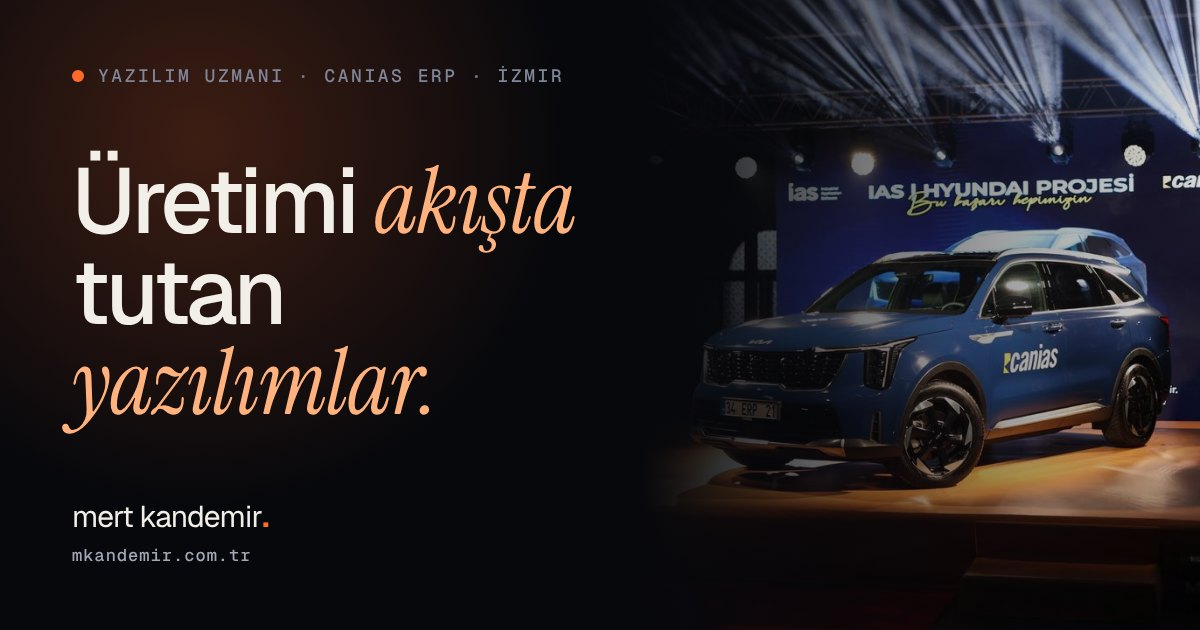
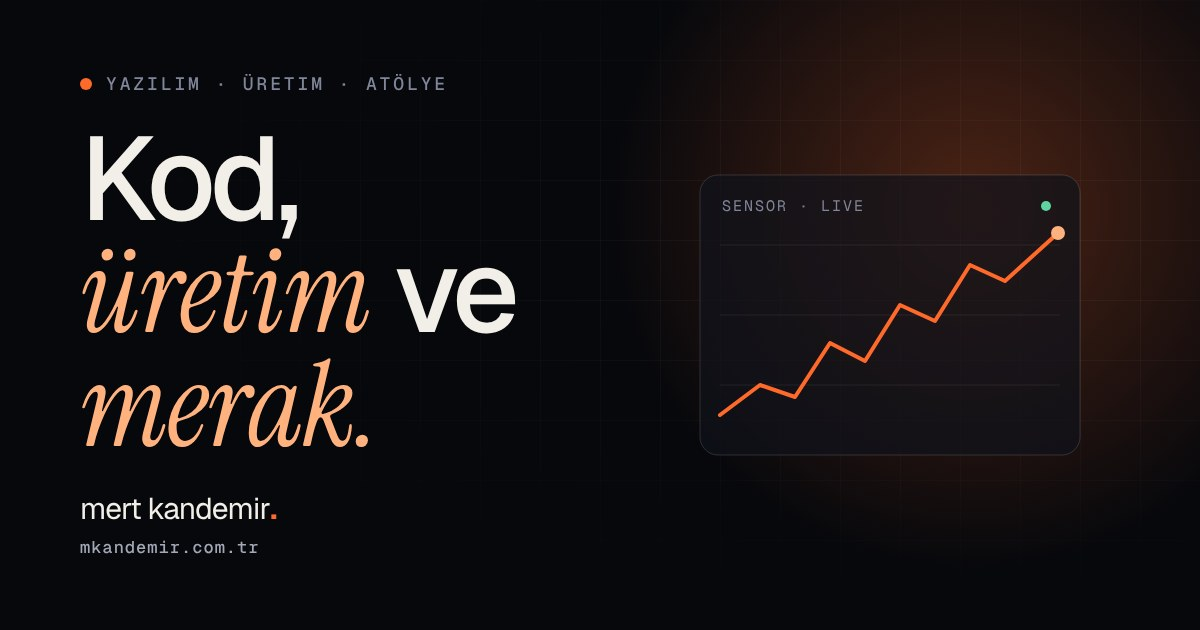
Personal hero, cropped signing photo, new OG images
- Crop signing photo so no one else appears in it
- Hero: "Code, factories and curiosity" with a personal intro
- Marquee now lists interests instead of tech keywords
- Remove technology stack lists from the day-job section
- New typographic OG images without company branding
- E-mail address assembled at runtime to reduce scraping

Claude-Session: https://claude.ai/code/session_01RdHNirFvH27waTBasaJWuB

diff --git a/index.html b/index.html
@@ -3,7 +3,7 @@
 <head>
 <meta charset="utf-8">
 <meta name="viewport" content="width=device-width, initial-scale=1, viewport-fit=cover">
-<title>Mert Kandemir — Software, manufacturing &amp; tinkering</title>
+<title>Mert Kandemir — Code, factories and curiosity</title>
 <meta name="description" content="Mert Kandemir — software developer in İzmir working on the production module of CANIAS ERP. Personal apps MotoHane and Garantim, and workshop experiments with PLCs and sensors.">
 <meta name="theme-color" content="#07080c">
 <link rel="canonical" href="https://mkandemir.com.tr/">
@@ -14,20 +14,20 @@
 <meta property="og:site_name" content="Mert Kandemir">
 <meta property="og:locale" content="en_US">
 <meta property="og:locale:alternate" content="tr_TR">
-<meta property="og:title" content="Mert Kandemir — Software that keeps production moving">
+<meta property="og:title" content="Mert Kandemir — Code, factories and curiosity">
 <meta property="og:description" content="CANIAS ERP production by day; personal apps and workshop experiments by night. Mert Kandemir, İzmir.">
 <meta property="og:url" content="https://mkandemir.com.tr/">
-<meta property="og:image" content="https://mkandemir.com.tr/assets/og-image.jpg">
+<meta property="og:image" content="https://mkandemir.com.tr/assets/og-image.jpg?v=2">
 <meta property="og:image:width" content="1200">
 <meta property="og:image:height" content="630">
-<meta property="og:image:alt" content="Mert Kandemir — Software that keeps production moving">
+<meta property="og:image:alt" content="Mert Kandemir — Code, factories and curiosity">
 <meta name="twitter:card" content="summary_large_image">
 <link rel="icon" href="/assets/favicon.svg" type="image/svg+xml">
 <link rel="icon" href="/assets/favicon-32.png" sizes="32x32" type="image/png">
 <link rel="apple-touch-icon" href="/assets/apple-touch-icon.png">
 <link rel="preload" href="/assets/fonts/geist-latin-wght-normal.woff2" as="font" type="font/woff2" crossorigin>
 <link rel="stylesheet" href="/assets/css/fonts.css?v=2">
-<link rel="stylesheet" href="/assets/css/site.css?v=6">
+<link rel="stylesheet" href="/assets/css/site.css?v=7">
 <link rel="preload" as="image" href="/assets/hyundai/stage-wide.webp" type="image/webp" media="(min-width: 641px)">
 <script>
 document.documentElement.classList.replace('no-js','js');
@@ -74,7 +74,7 @@ document.documentElement.classList.replace('no-js','js');
     <a href="#contact">Contact <small>05</small></a>
   </nav>
   <div class="mm-foot">
-    <a href="mailto:mertkandemir01@gmail.com">mertkandemir01@gmail.com</a>
+    <a href="#contact" data-mail="mertkandemir01|gmail.com"><span data-mail-text>mertkandemir01 [at] gmail.com</span></a>
     <a href="https://www.linkedin.com/in/mert-kandemir-8798bb8b" target="_blank" rel="noopener">LinkedIn</a>
     <a href="https://github.com/mertkandemir" target="_blank" rel="noopener">GitHub</a>
   </div>
@@ -85,9 +85,9 @@ document.documentElement.classList.replace('no-js','js');
 <section class="hero" aria-labelledby="hero-title">
   <div class="wrap hero-grid">
     <div>
-      <div class="eyebrow fade-in"><span class="dot" aria-hidden="true"></span><span class="label">IAS · CANIAS ERP · İzmir</span></div>
-      <h1 id="hero-title"><span class="line"><span>Software that</span></span><span class="line"><span>keeps <em>production</em></span></span><span class="line"><span><em>moving.</em></span></span></h1>
-      <p class="lead fade-in d2">I'm Mert. By day I work on the production module of CANIAS ERP at IAS. In the evenings I build my own apps and tinker in my workshop with Arduino, PLCs and sensors.</p>
+      <div class="eyebrow fade-in"><span class="dot" aria-hidden="true"></span><span class="label">Mert Kandemir · İzmir</span></div>
+      <h1 id="hero-title"><span class="line"><span>Code,</span></span><span class="line"><span><em>factories</em> and</span></span><span class="line"><span><em>curiosity.</em></span></span></h1>
+      <p class="lead fade-in d2">By day I work on the production module of CANIAS ERP at IAS; in the evenings I build my own apps and tinker with PLCs and sensors in my workshop. This is where I share what I've made and what I'm making.</p>
       <div class="hero-actions fade-in d3">
         <a class="btn primary" href="#work" data-magnetic>See my projects <span class="arr down" aria-hidden="true">↓</span></a>
         <a class="btn" href="#about" data-magnetic>About me <span class="arr down" aria-hidden="true">↓</span></a>
@@ -128,8 +128,8 @@ document.documentElement.classList.replace('no-js','js');
 
 <div class="marquee" aria-hidden="true">
   <div class="marquee-track">
-    <div class="marquee-group"><span>Production orders</span><span><em>Bills of materials</em></span><span>Routings</span><span><em>Material requirements</em></span><span>Confirmations</span><span><em>Shop-floor reporting</em></span><span>TROIA</span><span><em>SQL</em></span><span>React Native</span><span><em>.NET</em></span></div>
-    <div class="marquee-group"><span>Production orders</span><span><em>Bills of materials</em></span><span>Routings</span><span><em>Material requirements</em></span><span>Confirmations</span><span><em>Shop-floor reporting</em></span><span>TROIA</span><span><em>SQL</em></span><span>React Native</span><span><em>.NET</em></span></div>
+    <div class="marquee-group"><span>Manufacturing software</span><span><em>Mobile apps</em></span><span>The workshop</span><span><em>PLCs & sensors</em></span><span>Resin printing</span><span><em>Sailing</em></span><span>Tennis</span><span><em>Swimming</em></span><span>Learning new things</span><span><em>İzmir</em></span></div>
+    <div class="marquee-group"><span>Manufacturing software</span><span><em>Mobile apps</em></span><span>The workshop</span><span><em>PLCs & sensors</em></span><span>Resin printing</span><span><em>Sailing</em></span><span>Tennis</span><span><em>Swimming</em></span><span>Learning new things</span><span><em>İzmir</em></span></div>
   </div>
 </div>
 
@@ -238,7 +238,7 @@ document.documentElement.classList.replace('no-js','js');
         <p class="lead">As the IAS team, we brought CANIAS ERP to Hyundai's automotive manufacturing. I worked on Production Management applications and production reports, and spent three months of the project on-site in South Korea alongside the local teams. The achievement certificate we received as a team — and the car carrying all our signatures — are some of my favourite memories of this work.</p>
       </div>
       <figure class="shot sign" data-reveal>
-        <picture><source srcset="/assets/hyundai/signing-sm.webp 640w, /assets/hyundai/signing.webp 1100w" sizes="(max-width:900px) 100vw, 40vw" type="image/webp"><img src="/assets/hyundai/signing.jpg" width="1100" height="1650" alt="Mert Kandemir signing the hood of the project car alongside the team's signatures." loading="lazy" decoding="async"></picture>
+        <picture><source srcset="/assets/hyundai/signing-sm.webp 640w, /assets/hyundai/signing.webp 822w" sizes="(max-width:900px) 100vw, 40vw" type="image/webp"><img src="/assets/hyundai/signing.jpg" width="822" height="1028" alt="Mert Kandemir signing the hood of the project car alongside the team's signatures." loading="lazy" decoding="async"></picture>
         <figcaption><small>Team</small>The team's signatures on the project car</figcaption>
       </figure>
     </div>
@@ -265,14 +265,7 @@ document.documentElement.classList.replace('no-js','js');
       <article class="card" data-reveal><div class="num">04<svg viewBox="0 0 24 24" fill="none" stroke="currentColor" stroke-width="1.5" aria-hidden="true"><path d="M3 7l9-4 9 4-9 4-9-4z"/><path d="M3 12l9 4 9-4M3 17l9 4 9-4"/></svg></div><div><h3>Material requirements</h3><p>Requirements and reservations that keep the line supplied on time.</p></div></article>
       <article class="card" data-reveal style="--d:.05s"><div class="num">05<svg viewBox="0 0 24 24" fill="none" stroke="currentColor" stroke-width="1.5" aria-hidden="true"><circle cx="12" cy="12" r="9"/><path d="m8 12 3 3 5-6"/></svg></div><div><h3>Production confirmations</h3><p>Capturing what was actually produced — quantities, time and scrap.</p></div></article>
       <article class="card" data-reveal style="--d:.1s"><div class="num">06<svg viewBox="0 0 24 24" fill="none" stroke="currentColor" stroke-width="1.5" aria-hidden="true"><path d="M4 20V10M10 20V4M16 20v-7M22 20H2"/></svg></div><div><h3>Production reporting</h3><p>Reports that turn shop-floor data into decisions for planners and managers.</p></div></article>
-    </div>
-
-    <div class="stack">
-      <div data-reveal><span class="label">Enterprise</span><p>CANIAS ERP (PRD) · TROIA · SQL · Process analysis · Standard-product &amp; customer development</p></div>
-      <div data-reveal style="--d:.08s"><span class="label">Mobile</span><p>React Native · Expo · TypeScript · Supabase · iOS &amp; Android</p></div>
-      <div data-reveal style="--d:.16s"><span class="label">Web &amp; industrial</span><p>C# · ASP.NET Core · Next.js · REST APIs · SQL Server · PostgreSQL · WinForms · HMI/SCADA · PLC</p></div>
-    </div>
-  </div>
+    </div>  </div>
 </section>
 
 <!-- ===== ABOUT ===== -->
@@ -312,9 +305,9 @@ document.documentElement.classList.replace('no-js','js');
     <h2 id="contact-title" data-reveal style="margin-top:22px">Let's stay <em>in touch.</em></h2>
     <p class="lead" data-reveal style="margin-top:22px">Always happy to talk manufacturing software, CANIAS or workshop experiments.</p>
     <div class="contact-row" data-reveal>
-      <a class="mail" href="mailto:mertkandemir01@gmail.com"><span class="circle" aria-hidden="true">↗</span>mertkandemir01@gmail.com</a>
+      <a class="mail" href="#contact" data-mail="mertkandemir01|gmail.com"><span class="circle" aria-hidden="true">↗</span><span data-mail-text>mertkandemir01 [at] gmail.com</span></a>
       <div class="socials">
-        <button class="btn" type="button" data-copy="mertkandemir01@gmail.com" data-done="Copied ✓" aria-live="polite">Copy e-mail</button>
+        <button class="btn" type="button" data-copy="mertkandemir01|gmail.com" data-done="Copied ✓" aria-live="polite">Copy e-mail</button>
         <a class="btn" href="https://www.linkedin.com/in/mert-kandemir-8798bb8b" target="_blank" rel="noopener">LinkedIn <span class="arr" aria-hidden="true">↗</span></a>
         <a class="btn" href="https://github.com/mertkandemir" target="_blank" rel="noopener">GitHub <span class="arr" aria-hidden="true">↗</span></a>
       </div>
@@ -329,6 +322,6 @@ document.documentElement.classList.replace('no-js','js');
     <span><a href="/tr/" data-lang="tr">Türkçe</a> · <a href="#main">Back to top ↑</a></span>
   </div>
 </footer>
-<script src="/assets/js/site.js?v=4" defer></script>
+<script src="/assets/js/site.js?v=7" defer></script>
 </body>
 </html>

diff --git a/tr/index.html b/tr/index.html
@@ -3,7 +3,7 @@
 <head>
 <meta charset="utf-8">
 <meta name="viewport" content="width=device-width, initial-scale=1, viewport-fit=cover">
-<title>Mert Kandemir — Yazılım, üretim ve atölye</title>
+<title>Mert Kandemir — Kod, üretim ve merak</title>
 <meta name="description" content="Mert Kandemir — İzmir'de CANIAS ERP'nin üretim modülü üzerinde çalışan yazılımcı. Kendi mobil uygulamaları MotoHane ve Garantim, PLC ve sensörlerle atölye deneyleri.">
 <meta name="theme-color" content="#07080c">
 <link rel="canonical" href="https://mkandemir.com.tr/tr/">
@@ -14,20 +14,20 @@
 <meta property="og:site_name" content="Mert Kandemir">
 <meta property="og:locale" content="tr_TR">
 <meta property="og:locale:alternate" content="en_US">
-<meta property="og:title" content="Mert Kandemir — Üretimi akışta tutan yazılımlar">
+<meta property="og:title" content="Mert Kandemir — Kod, üretim ve merak">
 <meta property="og:description" content="Gündüz CANIAS ERP üretim modülü, akşam kendi uygulamaları ve atölye deneyleri. İzmir'den Mert Kandemir.">
 <meta property="og:url" content="https://mkandemir.com.tr/tr/">
-<meta property="og:image" content="https://mkandemir.com.tr/assets/og-image-tr.jpg">
+<meta property="og:image" content="https://mkandemir.com.tr/assets/og-image-tr.jpg?v=2">
 <meta property="og:image:width" content="1200">
 <meta property="og:image:height" content="630">
-<meta property="og:image:alt" content="Mert Kandemir — Üretimi akışta tutan yazılımlar">
+<meta property="og:image:alt" content="Mert Kandemir — Kod, üretim ve merak">
 <meta name="twitter:card" content="summary_large_image">
 <link rel="icon" href="/assets/favicon.svg" type="image/svg+xml">
 <link rel="icon" href="/assets/favicon-32.png" sizes="32x32" type="image/png">
 <link rel="apple-touch-icon" href="/assets/apple-touch-icon.png">
 <link rel="preload" href="/assets/fonts/geist-latin-wght-normal.woff2" as="font" type="font/woff2" crossorigin>
 <link rel="stylesheet" href="/assets/css/fonts.css?v=2">
-<link rel="stylesheet" href="/assets/css/site.css?v=6">
+<link rel="stylesheet" href="/assets/css/site.css?v=7">
 <link rel="preload" as="image" href="/assets/hyundai/stage-wide.webp" type="image/webp" media="(min-width: 641px)">
 <script>document.documentElement.classList.replace('no-js','js');</script>
 <script type="application/ld+json">
@@ -71,7 +71,7 @@
     <a href="#contact">İletişim <small>05</small></a>
   </nav>
   <div class="mm-foot">
-    <a href="mailto:mertkandemir01@gmail.com">mertkandemir01@gmail.com</a>
+    <a href="#contact" data-mail="mertkandemir01|gmail.com"><span data-mail-text>mertkandemir01 [at] gmail.com</span></a>
     <a href="https://www.linkedin.com/in/mert-kandemir-8798bb8b" target="_blank" rel="noopener">LinkedIn</a>
     <a href="https://github.com/mertkandemir" target="_blank" rel="noopener">GitHub</a>
   </div>
@@ -82,9 +82,9 @@
 <section class="hero" aria-labelledby="hero-title">
   <div class="wrap hero-grid">
     <div>
-      <div class="eyebrow fade-in"><span class="dot" aria-hidden="true"></span><span class="label">IAS · CANIAS ERP · İzmir</span></div>
-      <h1 id="hero-title"><span class="line"><span>Üretimi</span></span><span class="line"><span><em>akışta</em> tutan</span></span><span class="line"><span><em>yazılımlar.</em></span></span></h1>
-      <p class="lead fade-in d2">Ben Mert. Gündüzleri IAS'te CANIAS ERP'nin üretim modülü üzerinde çalışıyorum. Akşamları kendi uygulamalarımı geliştiriyor, atölyede Arduino, PLC ve sensörlerle yeni şeyler deniyorum.</p>
+      <div class="eyebrow fade-in"><span class="dot" aria-hidden="true"></span><span class="label">Mert Kandemir · İzmir</span></div>
+      <h1 id="hero-title"><span class="line"><span>Kod,</span></span><span class="line"><span><em>üretim</em> ve</span></span><span class="line"><span><em>merak.</em></span></span></h1>
+      <p class="lead fade-in d2">Gündüzleri IAS'te CANIAS ERP'nin üretim modülü üzerinde çalışıyorum; akşamları kendi uygulamalarımı geliştiriyor, atölyede PLC ve sensörlerle bir şeyler kuruyorum. Burası, yaptıklarımı ve yapmakta olduklarımı paylaştığım yer.</p>
       <div class="hero-actions fade-in d3">
         <a class="btn primary" href="#work" data-magnetic>Projelerime göz at <span class="arr down" aria-hidden="true">↓</span></a>
         <a class="btn" href="#about" data-magnetic>Hakkımda <span class="arr down" aria-hidden="true">↓</span></a>
@@ -125,8 +125,8 @@
 
 <div class="marquee" aria-hidden="true">
   <div class="marquee-track">
-    <div class="marquee-group"><span>İş emirleri</span><span><em>Ürün ağaçları</em></span><span>Rotalar</span><span><em>Malzeme ihtiyaçları</em></span><span>Üretim teyitleri</span><span><em>Saha raporlaması</em></span><span>TROIA</span><span><em>SQL</em></span><span>React Native</span><span><em>.NET</em></span></div>
-    <div class="marquee-group"><span>İş emirleri</span><span><em>Ürün ağaçları</em></span><span>Rotalar</span><span><em>Malzeme ihtiyaçları</em></span><span>Üretim teyitleri</span><span><em>Saha raporlaması</em></span><span>TROIA</span><span><em>SQL</em></span><span>React Native</span><span><em>.NET</em></span></div>
+    <div class="marquee-group"><span>Üretim yazılımları</span><span><em>Mobil uygulamalar</em></span><span>Atölye</span><span><em>PLC ve sensörler</em></span><span>Reçine baskı</span><span><em>Yelken</em></span><span>Tenis</span><span><em>Yüzme</em></span><span>Yeni şeyler öğrenmek</span><span><em>İzmir</em></span></div>
+    <div class="marquee-group"><span>Üretim yazılımları</span><span><em>Mobil uygulamalar</em></span><span>Atölye</span><span><em>PLC ve sensörler</em></span><span>Reçine baskı</span><span><em>Yelken</em></span><span>Tenis</span><span><em>Yüzme</em></span><span>Yeni şeyler öğrenmek</span><span><em>İzmir</em></span></div>
   </div>
 </div>
 
@@ -239,7 +239,7 @@
         <p class="lead">IAS ekibi olarak Hyundai'nin otomotiv üretimi için CANIAS ERP'yi hayata geçirdik. Ben ekipte Üretim Yönetimi uygulamaları ve üretim raporları üzerinde çalıştım; projenin üç ayını Güney Kore'de, sahada yerel ekiplerle birlikte geçirdim. Kutlamada ekipçe aldığımız başarı belgesi ve hepimizin imzasını taşıyan o araç, bu işin en sevdiğim hatıraları.</p>
       </div>
       <figure class="shot sign" data-reveal>
-        <picture><source srcset="/assets/hyundai/signing-sm.webp 640w, /assets/hyundai/signing.webp 1100w" sizes="(max-width:900px) 100vw, 40vw" type="image/webp"><img src="/assets/hyundai/signing.jpg" width="1100" height="1650" alt="Mert Kandemir ekibin imzalarının bulunduğu proje aracının kaputunu imzalıyor." loading="lazy" decoding="async"></picture>
+        <picture><source srcset="/assets/hyundai/signing-sm.webp 640w, /assets/hyundai/signing.webp 822w" sizes="(max-width:900px) 100vw, 40vw" type="image/webp"><img src="/assets/hyundai/signing.jpg" width="822" height="1028" alt="Mert Kandemir ekibin imzalarının bulunduğu proje aracının kaputunu imzalıyor." loading="lazy" decoding="async"></picture>
         <figcaption><small>Ekip</small>Proje aracına ekibin imzaları</figcaption>
       </figure>
     </div>
@@ -266,14 +266,7 @@
       <article class="card" data-reveal><div class="num">04<svg viewBox="0 0 24 24" fill="none" stroke="currentColor" stroke-width="1.5" aria-hidden="true"><path d="M3 7l9-4 9 4-9 4-9-4z"/><path d="M3 12l9 4 9-4M3 17l9 4 9-4"/></svg></div><div><h3>Malzeme ihtiyaçları</h3><p>Hattın zamanında beslenmesini sağlayan ihtiyaç ve rezervasyonlar.</p></div></article>
       <article class="card" data-reveal style="--d:.05s"><div class="num">05<svg viewBox="0 0 24 24" fill="none" stroke="currentColor" stroke-width="1.5" aria-hidden="true"><circle cx="12" cy="12" r="9"/><path d="m8 12 3 3 5-6"/></svg></div><div><h3>Üretim teyitleri</h3><p>Gerçekte ne üretildiğinin kaydı: miktar, süre ve fire.</p></div></article>
       <article class="card" data-reveal style="--d:.1s"><div class="num">06<svg viewBox="0 0 24 24" fill="none" stroke="currentColor" stroke-width="1.5" aria-hidden="true"><path d="M4 20V10M10 20V4M16 20v-7M22 20H2"/></svg></div><div><h3>Üretim raporlaması</h3><p>Saha verisini planlamacılar ve yöneticiler için karara dönüştüren raporlar.</p></div></article>
-    </div>
-
-    <div class="stack">
-      <div data-reveal><span class="label">Kurumsal</span><p>CANIAS ERP (PRD) · TROIA · SQL · Süreç analizi · Standart ürün ve müşteri geliştirmeleri</p></div>
-      <div data-reveal style="--d:.08s"><span class="label">Mobil</span><p>React Native · Expo · TypeScript · Supabase · iOS ve Android</p></div>
-      <div data-reveal style="--d:.16s"><span class="label">Web ve endüstriyel</span><p>C# · ASP.NET Core · Next.js · REST API · SQL Server · PostgreSQL · WinForms · HMI/SCADA · PLC</p></div>
-    </div>
-  </div>
+    </div>  </div>
 </section>
 
 <!-- ===== HAKKIMDA ===== -->
@@ -313,9 +306,9 @@
     <h2 id="contact-title" data-reveal style="margin-top:22px">Bağlantıda <em>kalalım.</em></h2>
     <p class="lead" data-reveal style="margin-top:22px">Üretim yazılımları, CANIAS ya da atölye deneyleri üzerine konuşmaktan her zaman keyif alırım.</p>
     <div class="contact-row" data-reveal>
-      <a class="mail" href="mailto:mertkandemir01@gmail.com"><span class="circle" aria-hidden="true">↗</span>mertkandemir01@gmail.com</a>
+      <a class="mail" href="#contact" data-mail="mertkandemir01|gmail.com"><span class="circle" aria-hidden="true">↗</span><span data-mail-text>mertkandemir01 [at] gmail.com</span></a>
       <div class="socials">
-        <button class="btn" type="button" data-copy="mertkandemir01@gmail.com" data-done="Kopyalandı ✓" aria-live="polite">E-postayı kopyala</button>
+        <button class="btn" type="button" data-copy="mertkandemir01|gmail.com" data-done="Kopyalandı ✓" aria-live="polite">E-postayı kopyala</button>
         <a class="btn" href="https://www.linkedin.com/in/mert-kandemir-8798bb8b" target="_blank" rel="noopener">LinkedIn <span class="arr" aria-hidden="true">↗</span></a>
         <a class="btn" href="https://github.com/mertkandemir" target="_blank" rel="noopener">GitHub <span class="arr" aria-hidden="true">↗</span></a>
       </div>
@@ -330,6 +323,6 @@
     <span><a href="/" data-lang="en">English</a> · <a href="#main">Başa dön ↑</a></span>
   </div>
 </footer>
-<script src="/assets/js/site.js?v=4" defer></script>
+<script src="/assets/js/site.js?v=7" defer></script>
 </body>
 </html>

diff --git a/motohane/index.html b/motohane/index.html
@@ -17,7 +17,7 @@
 <link rel="apple-touch-icon" href="/assets/apple-touch-icon.png">
 <link rel="preload" href="/assets/fonts/geist-latin-wght-normal.woff2" as="font" type="font/woff2" crossorigin>
 <link rel="stylesheet" href="/assets/css/fonts.css?v=2">
-<link rel="stylesheet" href="/assets/css/site.css?v=6">
+<link rel="stylesheet" href="/assets/css/site.css?v=7">
 <script>document.documentElement.classList.replace('no-js','js');</script>
 <style>
 .mh{min-height:100svh;padding:calc(var(--header-h) + 48px) 0 56px;display:flex;align-items:center}
@@ -108,7 +108,7 @@ a.store:hover{transform:translateY(-3px)}
     <span>Mert Kandemir tarafından geliştirildi · <a href="/tr/">mkandemir.com.tr</a></span>
   </div>
 </footer>
-<script src="/assets/js/site.js?v=4" defer></script>
+<script src="/assets/js/site.js?v=7" defer></script>
 <script>
 (()=>{const ua=navigator.userAgent||'';const ios=/iPad|iPhone|iPod/.test(ua)||(navigator.platform==='MacIntel'&&navigator.maxTouchPoints>1);const android=/Android/i.test(ua);const note=document.getElementById('device-note');if(ios){note.textContent='Bu cihaz için App Store bağlantısı hazır.'}else if(android){note.textContent='Android sürümü Google Play’de yayınlandığında burada açılacak.'}if(ios&&new URLSearchParams(location.search).get('open')==='1')location.replace('https://apps.apple.com/tr/app/motohane/id6827661637?l=tr')})();
 </script>

diff --git a/assets/js/site.js b/assets/js/site.js
@@ -128,14 +128,21 @@
     });
   }
 
+  // e-mail is assembled at runtime so scrapers don't find it in the HTML
+  document.querySelectorAll('[data-mail]').forEach(el => {
+    const addr = el.dataset.mail.replace('|', '@');
+    el.href = 'mailto:' + addr;
+    const t = el.querySelector('[data-mail-text]'); if (t) t.textContent = addr;
+  });
+
   // copy e-mail
   document.querySelectorAll('[data-copy]').forEach(btn => btn.addEventListener('click', async () => {
     try {
-      await navigator.clipboard.writeText(btn.dataset.copy);
+      await navigator.clipboard.writeText(btn.dataset.copy.replace('|', '@'));
       const label = btn.dataset.label || (btn.dataset.label = btn.textContent);
       btn.textContent = btn.dataset.done || label; btn.classList.add('done');
       setTimeout(() => { btn.textContent = label; btn.classList.remove('done'); }, 1800);
-    } catch (e) { location.href = 'mailto:' + btn.dataset.copy; }
+    } catch (e) { location.href = 'mailto:' + btn.dataset.copy.replace('|', '@'); }
   }));
 
   // work-order simulation (illustrative)

diff --git a/assets/css/site.css b/assets/css/site.css
@@ -211,7 +211,7 @@ section{padding:clamp(88px,11vw,150px) 0}
 .shot figcaption{position:absolute;left:14px;right:14px;bottom:14px;z-index:2;padding:12px 14px;border-radius:12px;background:rgba(7,8,12,.62);backdrop-filter:blur(10px);-webkit-backdrop-filter:blur(10px);border:1px solid var(--line);font-size:14px;color:var(--text);line-height:1.45}
 .shot figcaption small{display:block;font:500 12px var(--mono);letter-spacing:.12em;text-transform:uppercase;color:var(--accent2);margin-bottom:3px}
 .shot.cert img{object-position:40% 38%}
-.shot.sign img{object-position:55% 40%}
+.shot.sign img{object-position:50% 30%}
 
 /* ---------- domain ---------- */
 .domain{display:grid;grid-template-columns:repeat(3,1fr);gap:1px;background:var(--line);border:1px solid var(--line);border-radius:22px;overflow:hidden}

diff --git a/404.html b/404.html
@@ -10,7 +10,7 @@
 <link rel="apple-touch-icon" href="/assets/apple-touch-icon.png">
 <link rel="preload" href="/assets/fonts/geist-latin-wght-normal.woff2" as="font" type="font/woff2" crossorigin>
 <link rel="stylesheet" href="/assets/css/fonts.css?v=2">
-<link rel="stylesheet" href="/assets/css/site.css?v=6">
+<link rel="stylesheet" href="/assets/css/site.css?v=7">
 <script>document.documentElement.classList.replace('no-js','js');</script>
 <style>
 .nf{min-height:100svh;display:flex;align-items:center;padding:120px 0 60px}
